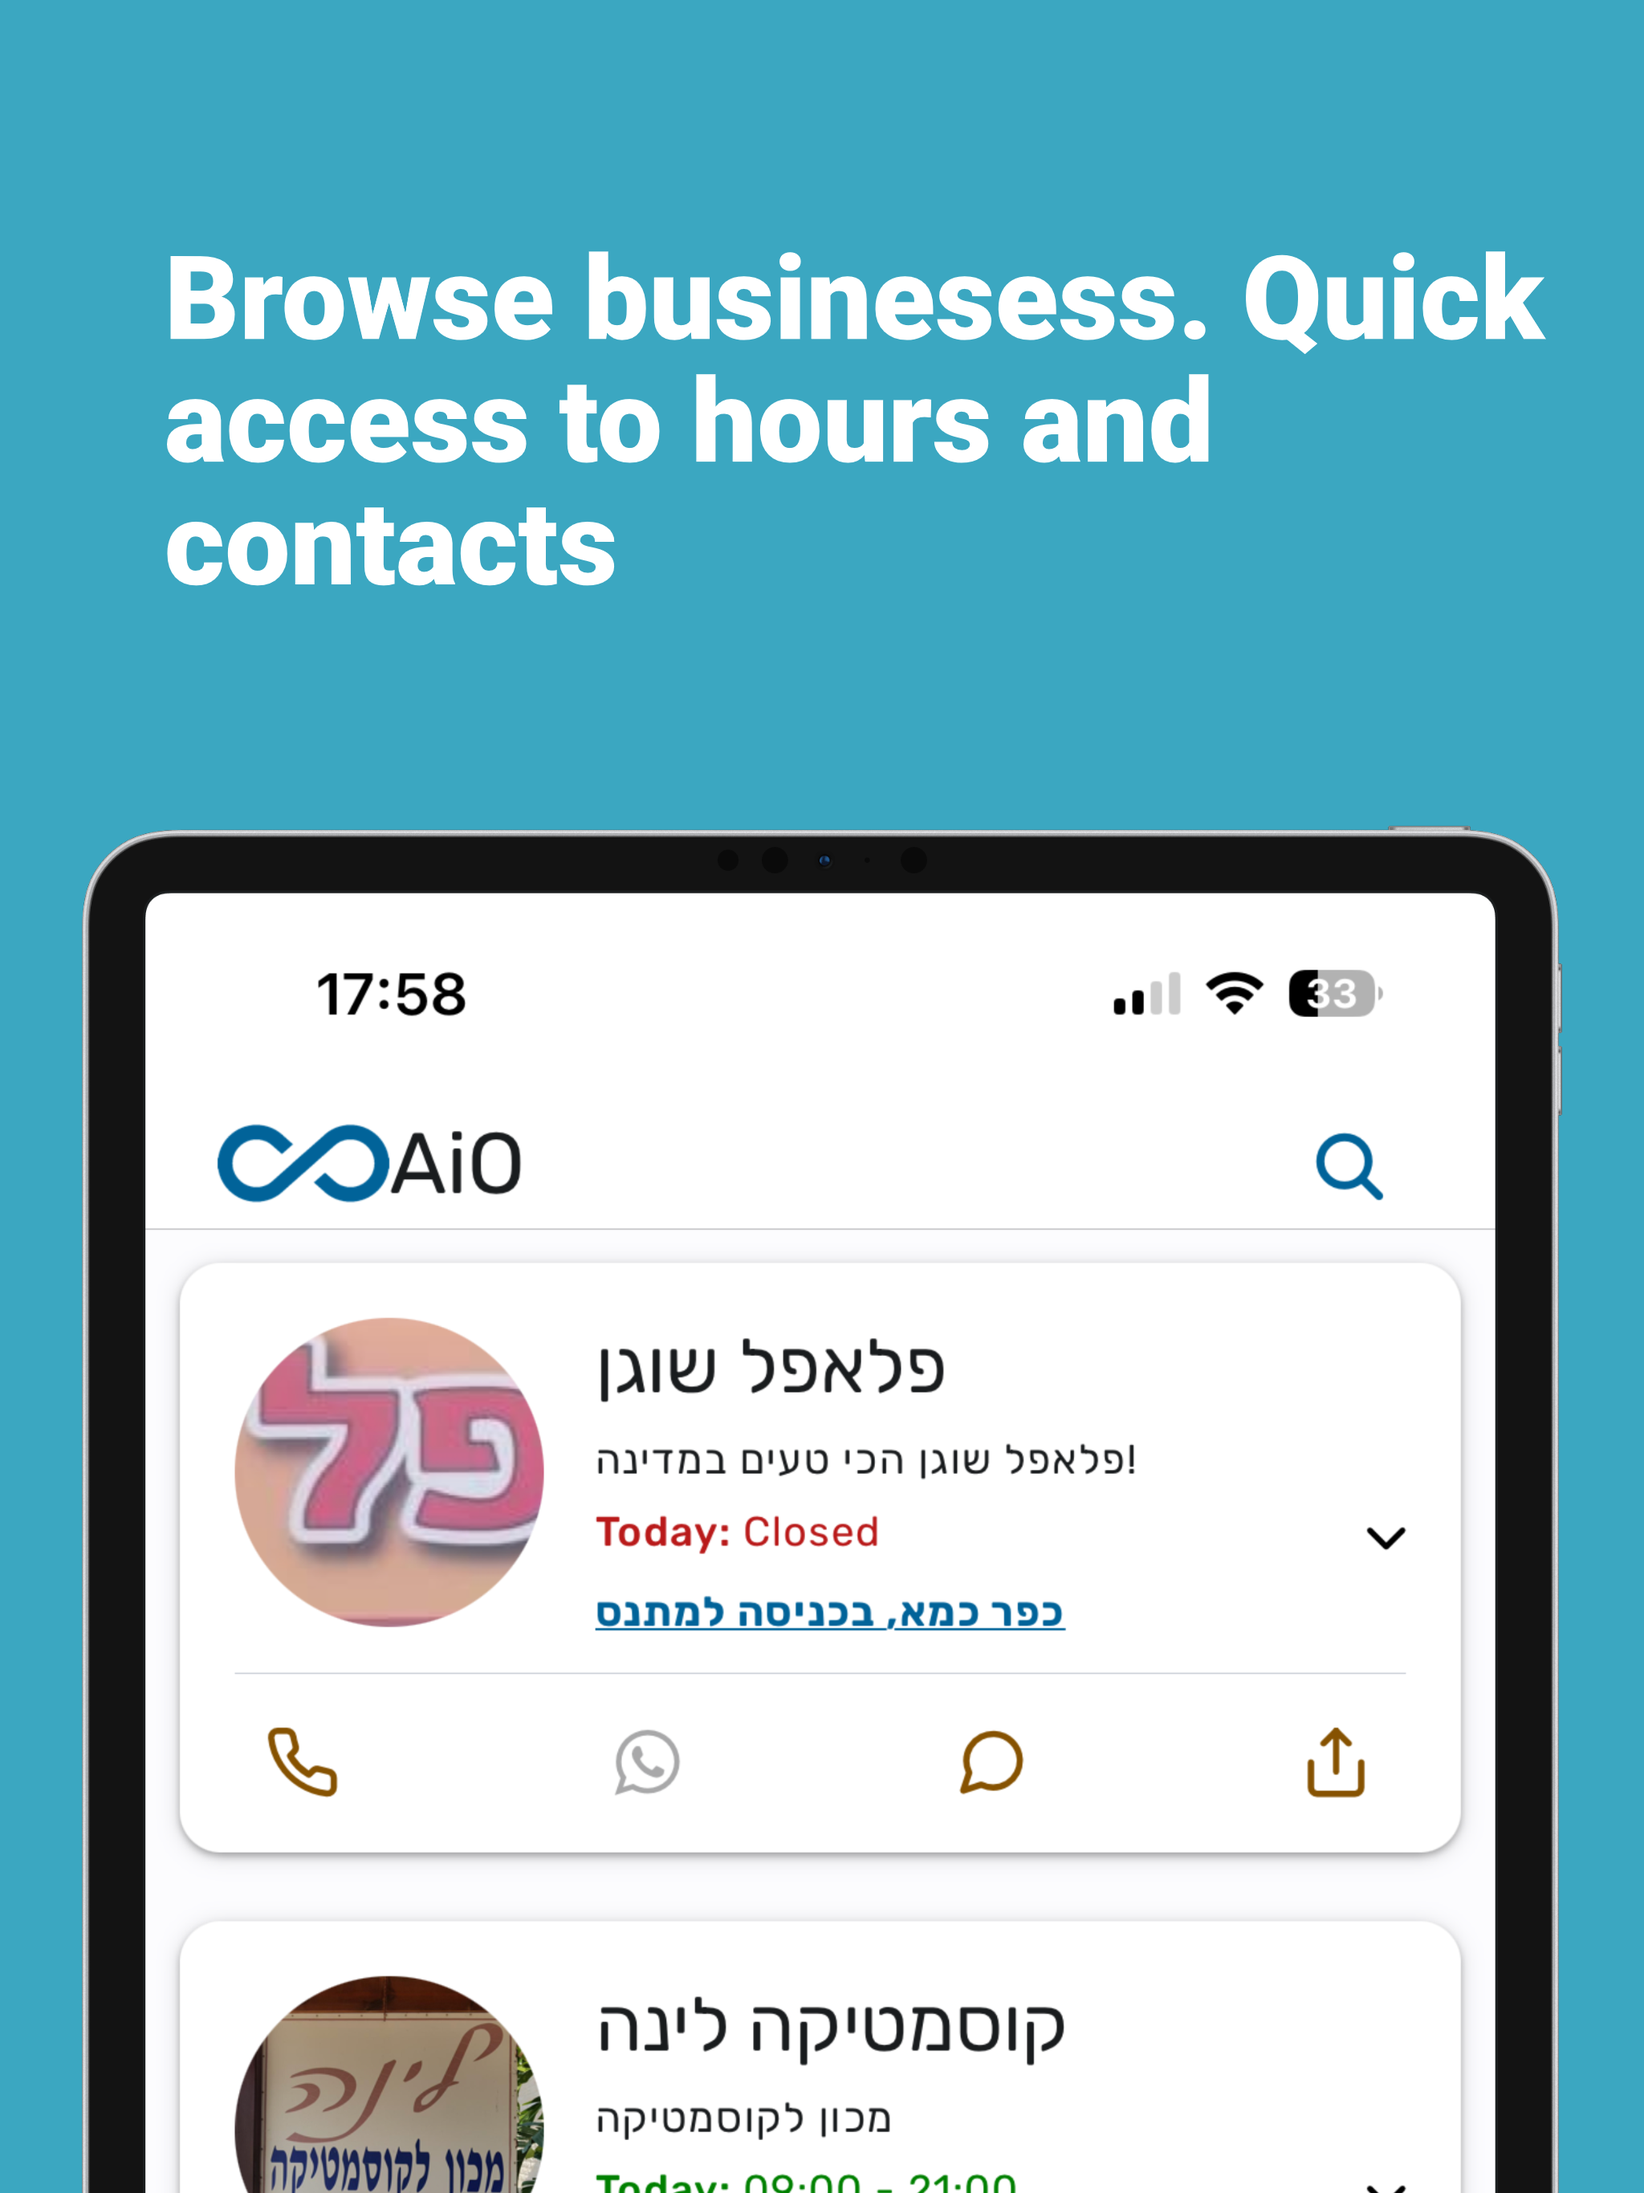
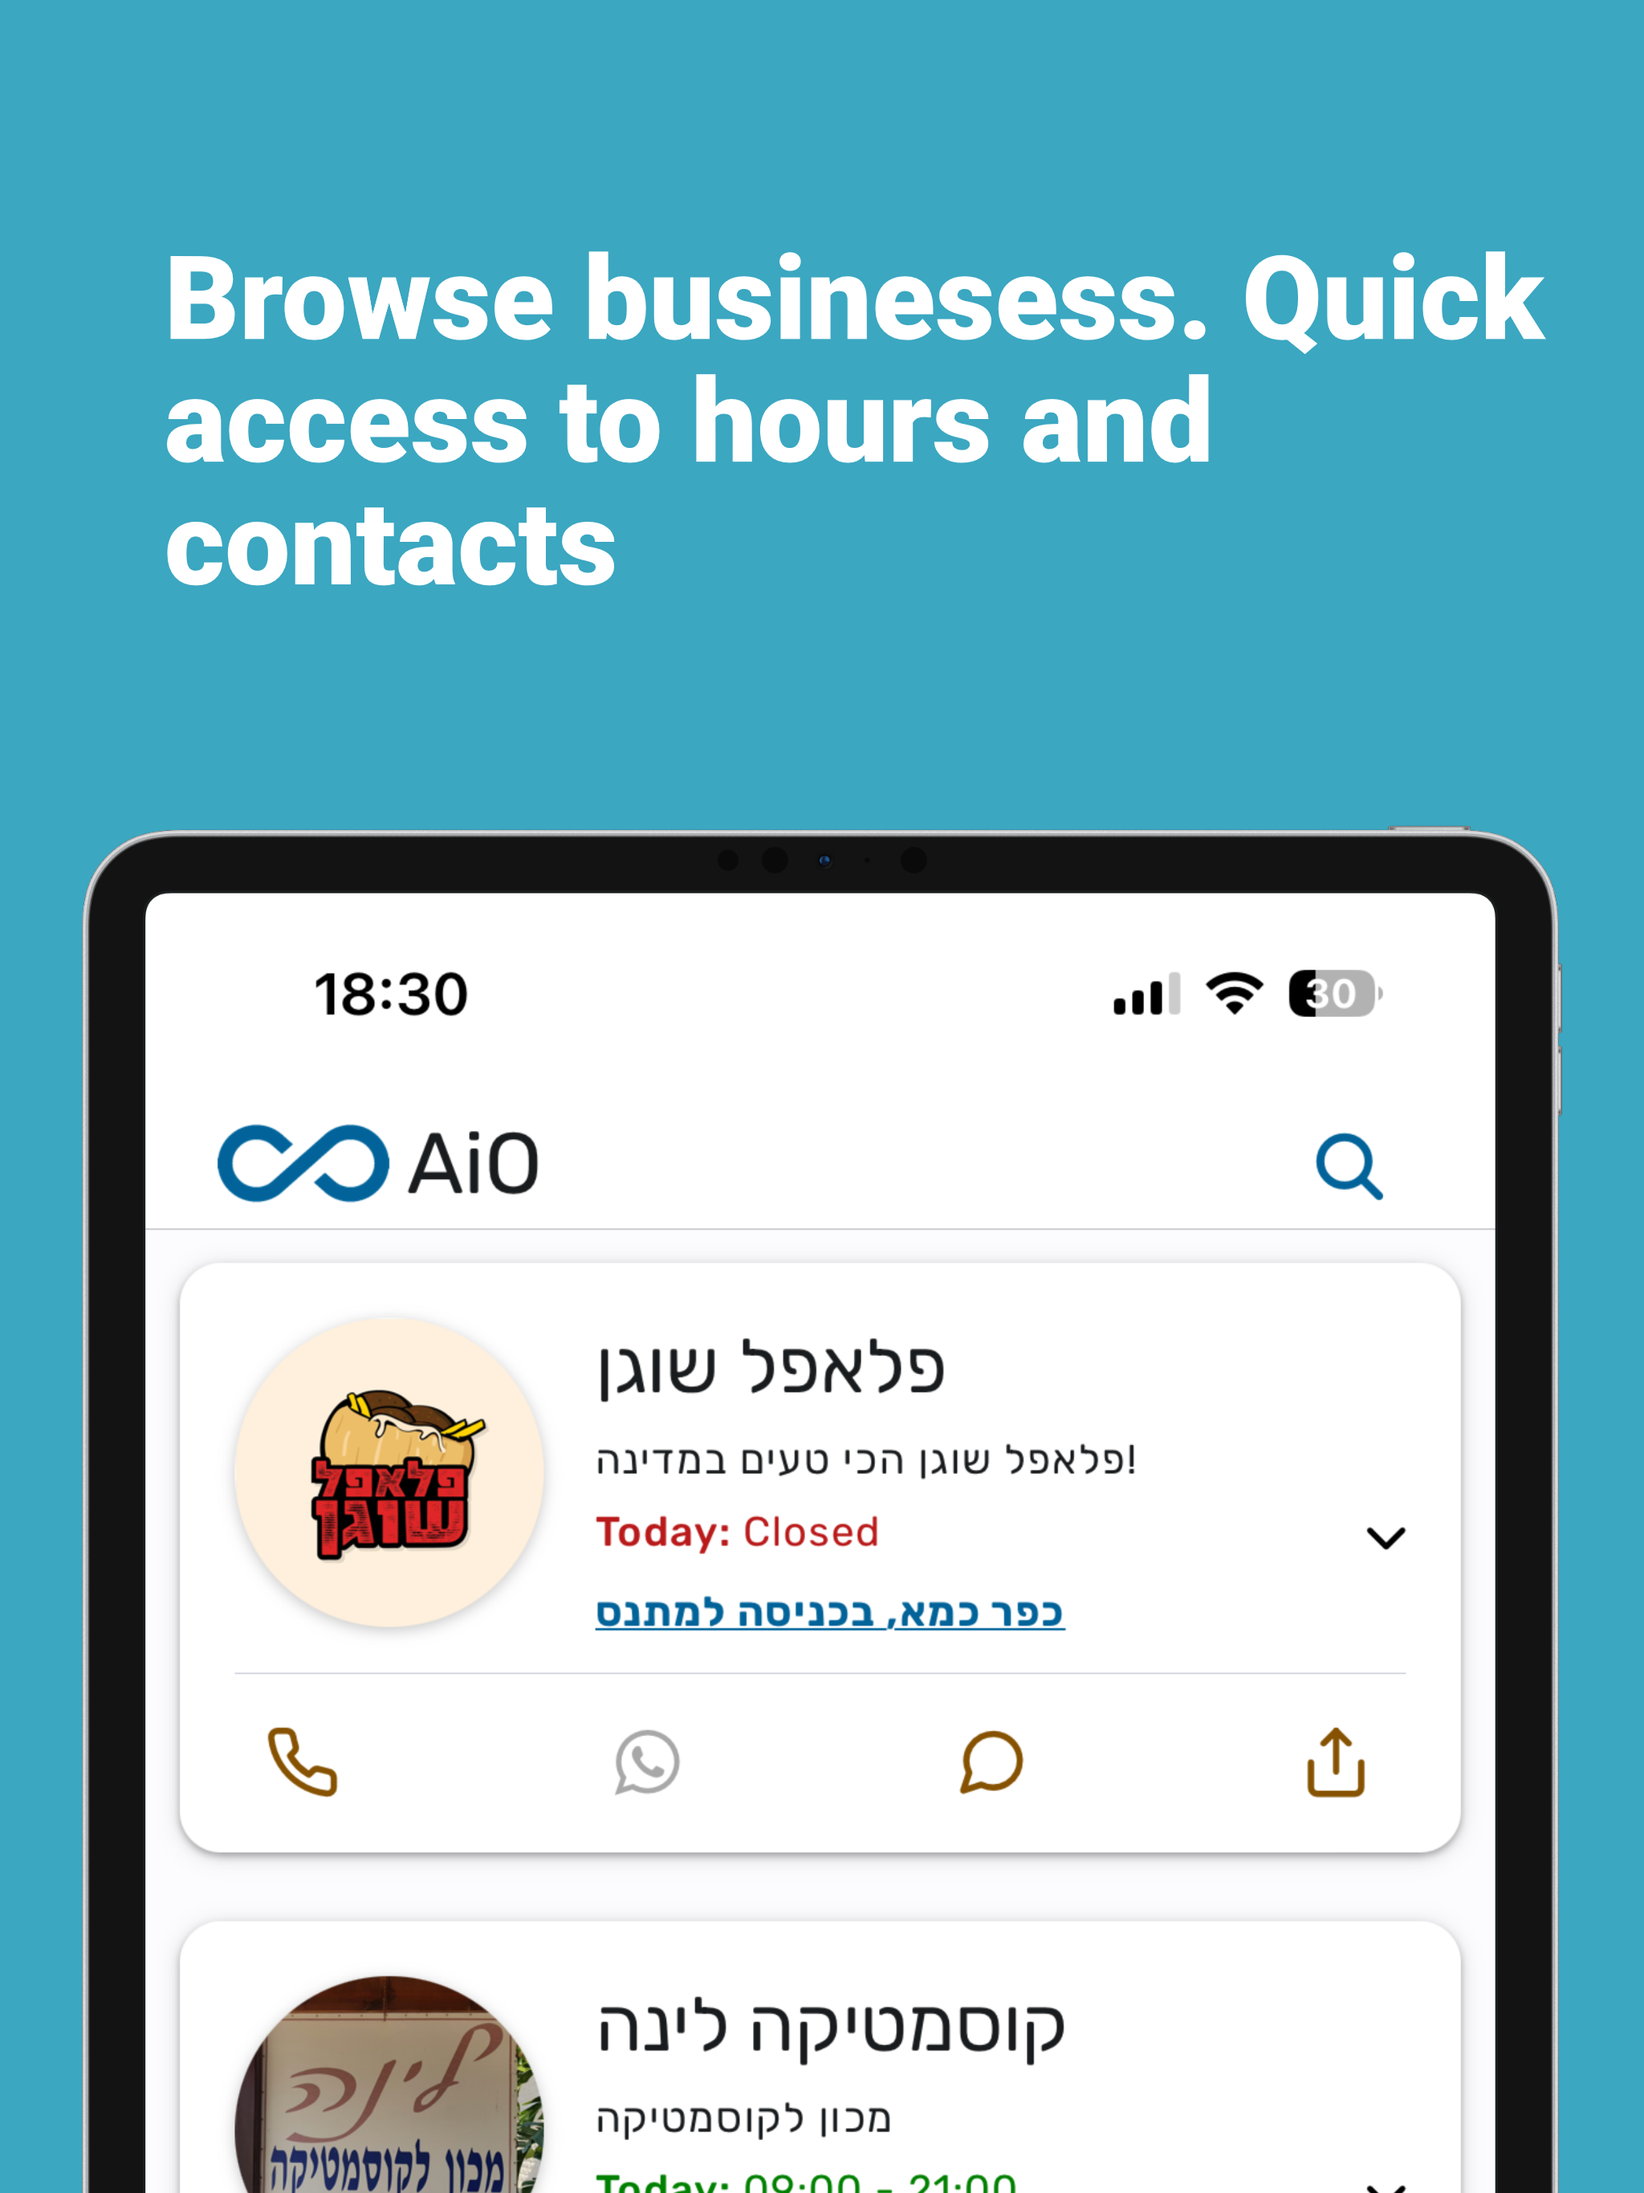
fix changes

diff --git a/aio-front/src/sections/Home/HeaderLogo.tsx b/aio-front/src/sections/Home/HeaderLogo.tsx
@@ -1,14 +1,14 @@
-import { StyleSheet, View } from "react-native";
-import { useTheme } from "../../contexts/ThemeContext";
-import { Image, Text } from "../../components/partials";
-import { memo } from "react";
+import { StyleSheet, View } from 'react-native';
+import { useTheme } from '../../contexts/ThemeContext';
+import { Image, Text } from '../../components/partials';
+import { memo } from 'react';
 
 const HeaderLogo = () => {
 	const { theme } = useTheme();
 	return (
 		<View style={styles.container}>
 			<Image
-				source={require("../../../assets/images/logo.png")}
+				source={require('../../../assets/images/logo.png')}
 				style={[styles.image, { tintColor: theme.colors.primary }]}
 			/>
 			<Text style={styles.label}>AiO</Text>
@@ -17,11 +17,11 @@ const HeaderLogo = () => {
 };
 
 const styles = StyleSheet.create({
-	container: { flexDirection: "row", alignItems: "center" },
+	container: { flexDirection: 'row', alignItems: 'center' },
 	image: {
 		height: 50,
 		width: 50,
-		marginLeft: 5,
+		marginHorizontal: 5,
 	},
 	label: { fontSize: 25 },
 });

diff --git a/aio-front/src/components/BusinessCard/BusinessCard.tsx b/aio-front/src/components/BusinessCard/BusinessCard.tsx
@@ -48,12 +48,14 @@ export const BusinessCard: React.FC<BusinessCardProps> = ({ business }) => {
 		>
 			<Card.Content>
 				<View style={styles.topRow}>
-					<Image
-						source={{
-							uri: business.logoPath,
-						}}
-						style={styles.image}
-					/>
+					<View style={styles.shadow}>
+						<Image
+							source={{
+								uri: business.logoPath,
+							}}
+							style={styles.image}
+						/>
+					</View>
 					<View style={styles.flex}>
 						<View style={styles.titleRow}>
 							<Text variant="titleLarge" numberOfLines={2} style={styles.name}>
@@ -138,6 +140,17 @@ const styles = StyleSheet.create({
 		textAlign: 'center',
 		// paddingTop: 4,
 		// fontFamily: 'Rubik-SemiBold',
+	},
+	shadow: {
+		shadowColor: '#000',
+		shadowOffset: {
+			width: 0,
+			height: 1,
+		},
+		shadowOpacity: 0.22,
+		shadowRadius: 2.22,
+
+		elevation: 3,
 	},
 });
 
